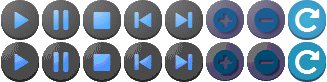
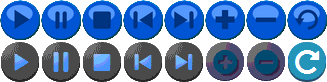
Ajout des boutons principaux du player

diff --git a/Player/PlayerWindow.cpp b/Player/PlayerWindow.cpp
@@ -14,6 +14,7 @@
 #include <QGridLayout>
 #include <QPalette>
 
+
 PlayerWindow::PlayerWindow(QWidget *parent)
     : QWidget(parent), m_TimerId(0), m_Spectrum(SPECTRUM_WIDTH)
 {
@@ -39,12 +40,41 @@ PlayerWindow::PlayerWindow(QWidget *parent)
     /** Ajout du contenu **/
 
     QGridLayout *topLayout = new QGridLayout;
-    topLayout->addWidget(&m_Spectrum, 0, 0);
+    topLayout->setColumnStretch(0, 1);
+    topLayout->addWidget(&m_Spectrum, 0, 1);
     m_TopPart.setLayout(topLayout);
+
+    QGridLayout *bottomLayout = new QGridLayout;
+
+    mp_Buttons << new PlayerButton(IMAGES_SUBDIR + "play.png")
+            << new PlayerButton(IMAGES_SUBDIR + "pause.png")
+            << new PlayerButton(IMAGES_SUBDIR + "stop.png")
+            << new PlayerButton(IMAGES_SUBDIR + "prev.png")
+            << new PlayerButton(IMAGES_SUBDIR + "next.png");
+
+    mp_Buttons.at(PAUSE_BUTTON)->hide();
+
+    connect(mp_Buttons.at(PLAY_BUTTON), SIGNAL(clicked()), this, SLOT(play()));
+    connect(mp_Buttons.at(PAUSE_BUTTON), SIGNAL(clicked()), this, SLOT(pause()));
+    connect(mp_Buttons.at(STOP_BUTTON), SIGNAL(clicked()), this, SLOT(stop()));
+    connect(mp_Buttons.at(PREV_BUTTON), SIGNAL(clicked()), this, SLOT(previousSong()));
+    connect(mp_Buttons.at(NEXT_BUTTON), SIGNAL(clicked()), this, SLOT(nextSong()));
+
+    bottomLayout->setColumnStretch(0, 1);
+    bottomLayout->addWidget(mp_Buttons.at(PLAY_BUTTON), 0, 2);
+    bottomLayout->addWidget(mp_Buttons.at(PAUSE_BUTTON), 0, 2);
+    bottomLayout->addWidget(mp_Buttons.at(STOP_BUTTON), 2, 2);
+    bottomLayout->addWidget(mp_Buttons.at(PREV_BUTTON), 1, 1);
+    bottomLayout->addWidget(mp_Buttons.at(NEXT_BUTTON), 1, 3);
+    bottomLayout->setColumnStretch(4, 1);
+    m_BottomPart.setLayout(bottomLayout);
 
     layout->addWidget(&m_TopPart);
     layout->addWidget(&m_BottomPart);
     setLayout(layout);
+
+
+    /** Démarrage du player **/
 
     refreshSongsList();
     setState(PLAY_STATE);
@@ -69,6 +99,9 @@ void PlayerWindow::setState(State_t state)
         m_Player.pause();
     else if (state == STOP_STATE)
         m_Player.stop();
+
+    mp_Buttons.at(PLAY_BUTTON)->setHidden(m_Player.isPlaying());
+    mp_Buttons.at(PAUSE_BUTTON)->setHidden(!m_Player.isPlaying());
 }
 
 // ==============================
@@ -102,7 +135,8 @@ void PlayerWindow::changeSong(int song)
 
 void PlayerWindow::refreshSongsList()
 {
-    m_Player.loadSongs(SONGS_SUBDIR);
+    QString songsSubDir = SONGS_SUBDIR;
+    m_Player.loadSongs(songsSubDir.toStdString());
 
     changeSong(m_Player.first());
 
@@ -113,11 +147,51 @@ void PlayerWindow::refreshSongsList()
 // ==============================
 // ==============================
 
+void PlayerWindow::play()
+{
+    setState(PLAY_STATE);
+}
+
+// ==============================
+// ==============================
+
+void PlayerWindow::pause()
+{
+    setState(PAUSE_STATE);
+}
+
+// ==============================
+// ==============================
+
+void PlayerWindow::stop()
+{
+    setState(STOP_STATE);
+}
+
+// ==============================
+// ==============================
+
+void PlayerWindow::previousSong()
+{
+    changeSong(m_Player.prev());
+}
+
+// ==============================
+// ==============================
+
+void PlayerWindow::nextSong()
+{
+    changeSong(m_Player.next());
+}
+
+// ==============================
+// ==============================
+
 void PlayerWindow::timerEvent(QTimerEvent *event)
 {
     if (event->timerId() == m_TimerId)
     {
-        if (m_Player.isPlayed())
+        if (m_Player.isPlaying())
         {
             m_Spectrum.updateValues(m_Player.getCurrentSong().getSoundID());
 

diff --git a/Player/Constants.h b/Player/Constants.h
@@ -19,9 +19,9 @@
 /** Chemins des ressources
 /*******************************/
 
-#define SONGS_SUBDIR        std::string("../resources") + Path::separator() + "Musiques"
-#define FONT_FILE           std::string("resources") + Path::separator() + "lsans.ttf"
-#define IMAGES_SUBDIR       std::string("../resources") + Path::separator() + "Images"
+#define SONGS_SUBDIR        "../resources" + QString(Path::separator()) + "Musiques/"
+#define FONT_FILE           "../resources" + QString(Path::separator()) + "lsans.ttf"
+#define IMAGES_SUBDIR       "../resources" + QString(Path::separator()) + "Images/"
 
 
 /*******************************
@@ -67,7 +67,7 @@
 /*******************************/
 
 // Taille d'un bouton
-#define BUTTON_SIZE         40
+#define BUTTON_SIZE         45
 
 // Coordonnées des boutons
 #define PLAY_X              380
@@ -148,8 +148,7 @@ enum { BUTTONS_TEXTURE, BOTTOM_BACKGROUND, NB_TEXTURES };
 enum { TITLE_TEXT, POS_TEXT, LENGTH_TEXT, NB_TEXTS };
 
 // Liste des objets cliquables
-enum Clickable_t { PLAY_BUTTON, STOP_BUTTON, PREV_BUTTON, NEXT_BUTTON,
-                   VOLUME_MORE_BUTTON, VOLUME_LESS_BUTTON,
+enum Clickable_t { VOLUME_MORE_BUTTON, VOLUME_LESS_BUTTON,
                    REFRESH_DIR_BUTTON, NB_BUTTONS,
 
                    PROGRESS_BACKGROUND = NB_BUTTONS,

diff --git a/Player/PlayerWindow.h b/Player/PlayerWindow.h
@@ -14,10 +14,12 @@
 #include <QWidget>
 #include "Player.h"
 #include "Spectrum.h"
+#include "PlayerButton.h"
 
 #include <QTimerEvent>
 #include <QShowEvent>
 #include <QHideEvent>
+#include <QVector>
 
 class PlayerWindow : public QWidget
 {
@@ -33,6 +35,11 @@ class PlayerWindow : public QWidget
         QWidget m_BottomPart;
 
         Spectrum m_Spectrum;
+
+
+        enum ButtonId_t { PLAY_BUTTON, PAUSE_BUTTON, STOP_BUTTON, PREV_BUTTON, NEXT_BUTTON };
+
+        QVector<PlayerButton*> mp_Buttons;
 
 
         /**
@@ -51,6 +58,18 @@ class PlayerWindow : public QWidget
          * @brief Met à jour la liste des musiques du répertoire.
          */
         virtual void refreshSongsList();
+
+    private slots:
+
+        virtual void play();
+
+        virtual void pause();
+
+        virtual void stop();
+
+        virtual void previousSong();
+
+        virtual void nextSong();
 
     protected:
 

diff --git a/Player/PlayerButton.cpp b/Player/PlayerButton.cpp
@@ -1,0 +1,35 @@
+/*************************************
+ * @file    PlayerButton.cpp
+ * @date    03/05/15
+ * @author  Manuel
+ *
+ * Définitions de la classe PlayerButton.
+ *************************************
+*/
+
+#include "PlayerButton.h"
+#include "Constants.h"
+#include "FileLoadingException.h"
+#include <QPixmap>
+
+
+PlayerButton::PlayerButton(const QString& fileName, QWidget *parent)
+    : ClickableLabel(parent)
+{
+    QPixmap image(fileName);
+    if (image.isNull())
+        throw FileLoadingException("PlayerButton::PlayerButton", fileName.toStdString());
+
+    setPixmap(image.scaled(BUTTON_SIZE, BUTTON_SIZE, Qt::KeepAspectRatio));
+}
+
+// ==============================
+// ==============================
+
+PlayerButton::~PlayerButton()
+{
+
+}
+
+// ==============================
+// ==============================

diff --git a/Player/FileLoadingException.h b/Player/FileLoadingException.h
@@ -1,5 +1,5 @@
 /*************************************
- * @file    FileLoadingException.hpp
+ * @file    FileLoadingException.h
  * @date    02/08/14
  * @author  Manuel
  *
@@ -8,10 +8,10 @@
  *************************************
 */
 
-#ifndef __FILELOADINGEXCEPTION_HPP__
-#define __FILELOADINGEXCEPTION_HPP__
+#ifndef __FILELOADINGEXCEPTION_H__
+#define __FILELOADINGEXCEPTION_H__
 
-#include "BaseException.hpp"
+#include "BaseException.h"
 
 class FileLoadingException : public BaseException
 {
@@ -41,4 +41,4 @@ class FileLoadingException : public BaseException
     }
 };
 
-#endif  // __FILELOADINGEXCEPTION_HPP__
+#endif  // __FILELOADINGEXCEPTION_H__

diff --git a/Player/PlayerButton.h b/Player/PlayerButton.h
@@ -1,0 +1,25 @@
+/*************************************
+ * @file    PlayerButton.h
+ * @date    03/05/15
+ * @author  Manuel
+ *
+ * Déclarations de la classe PlayerButton
+ * correspondant à un bouton de l'application.
+ *************************************
+*/
+
+#ifndef __PLAYERBUTTON_H__
+#define __PLAYERBUTTON_H__
+
+#include "ClickableLabel.h"
+
+class PlayerButton : public ClickableLabel
+{
+    public:
+
+        PlayerButton(const QString& fileName, QWidget *parent = 0);
+        virtual ~PlayerButton();
+};
+
+#endif // __PLAYERBUTTON_H__
+

diff --git a/Player/Player.cpp b/Player/Player.cpp
@@ -83,11 +83,14 @@ void Player::play()
 
 void Player::stop()
 {
-  m_Pause = false;
-  m_Stop = true;
+  if (!isStopped())
+  {
+    m_Pause = false;
+    m_Stop = true;
 
-  if (m_Songs.size() > 0)
-    getCurrentSong().stop();
+    if (m_Songs.size() > 0)
+      getCurrentSong().stop();
+  }
 }
 
 // ==============================
@@ -113,7 +116,7 @@ void Player::mute(bool mute)
 // ==============================
 // ==============================
 
-bool Player::isPlayed() const
+bool Player::isPlaying() const
 {
   return (!m_Pause && !m_Stop);
 }

diff --git a/Player/ClickableLabel.cpp b/Player/ClickableLabel.cpp
@@ -26,7 +26,7 @@ ClickableLabel::~ClickableLabel()
 // ==============================
 // ==============================
 
-void ClickableLabel::mousePressEvent(QMouseEvent *event)
+void ClickableLabel::mousePressEvent(QMouseEvent * /*event*/)
 {
 
 }
@@ -36,5 +36,6 @@ void ClickableLabel::mousePressEvent(QMouseEvent *event)
 
 void ClickableLabel::mouseReleaseEvent(QMouseEvent *event)
 {
-    emit clicked();
+    if (event->x() >= 0 && event->x() <= width() && event->y() >= 0 && event->y() <= height())
+        emit clicked();
 }

diff --git a/Player/Player.h b/Player/Player.h
@@ -75,7 +75,7 @@ class Player
     /**
      * @return true si ni pause, ni stop.
     */
-    virtual bool isPlayed() const;
+    virtual bool isPlaying() const;
 
     /**
      * @return true si le player est stoppé.

diff --git a/Player/ClickableLabel.h b/Player/ClickableLabel.h
@@ -12,6 +12,7 @@
 #define __CLICKABLELABEL_H__
 
 #include <QLabel>
+#include <QMouseEvent>
 
 class ClickableLabel : public QLabel
 {
